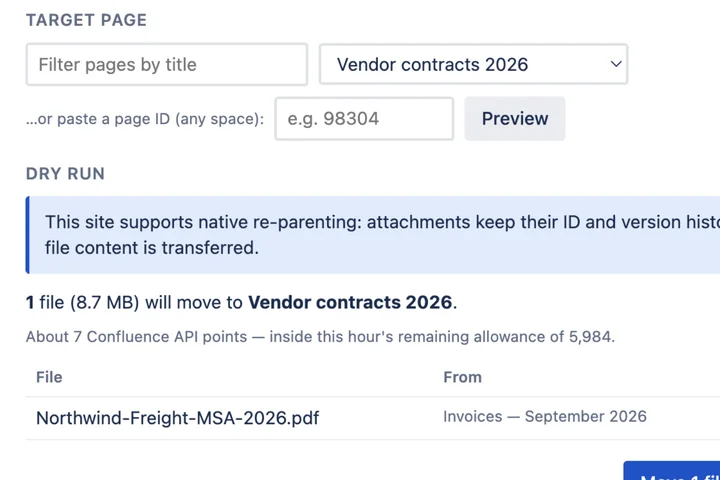
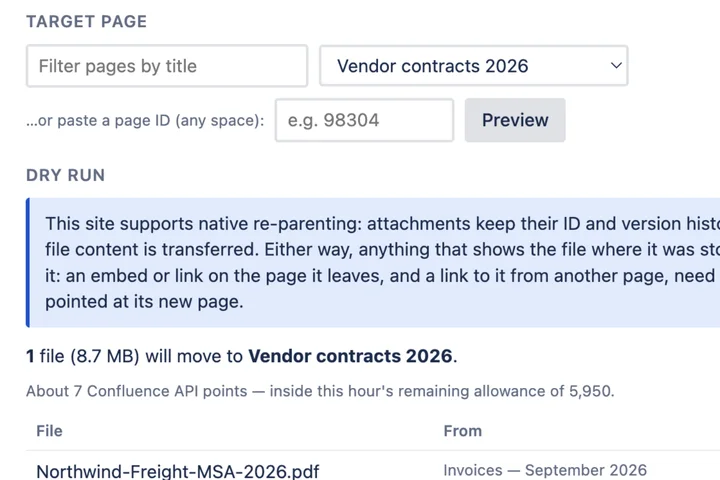
Satchel for Confluence: the demo re-shot on 2.11.0, and zips described with their limit
The embedded demo is 9Dr44CHaIY0 (1:10), recorded on the production install:
the zip now asks first, saying how many files, how big and what it costs, and
the dry run says what a move breaks. The old demo said Confluence could not
zip a whole space; a space admin's HTML export does, so it is unlisted. The
poster and the home page card are re-cut from the same install; the old poster
still showed the dialog's line that Confluence has no way to move attachments.

"A whole space in one zip" becomes "Files from any page, one zip": an archive
holds up to 2,000 files or 2 GB, and the comparison table and the docs now say
so, along with what happens to the files past either limit.

diff --git a/satchel-confluence/index.html b/satchel-confluence/index.html
@@ -55,12 +55,12 @@
         },
         "video": {
           "@type": "VideoObject",
-          "name": "Satchel for Confluence — move attachments in bulk, zip a whole space",
-          "description": "Move an attachment to the right page after a dry run, keeping its ID and version history, with an audit trail and an undo. Every attachment in a space in one searchable table, downloadable as one zip, plus the files nobody uses and the ones stored twice.",
+          "name": "Satchel for Confluence — move attachments in bulk, zip files from any page",
+          "description": "Every attachment in a space in one searchable table, and files from any pages zipped into one download. A contract moved to the right page after a dry run, keeping its ID and version history, with an audit trail and an undo. Then the likely orphans and the files stored twice.",
           "thumbnailUrl": "https://keelapps.app/assets/screenshots/satchel-confluence-move.png",
-          "uploadDate": "2026-09-26T11:05:00+03:00",
-          "duration": "PT1M9S",
-          "embedUrl": "https://www.youtube-nocookie.com/embed/dQr82ScUM2A"
+          "uploadDate": "2026-09-29T04:33:00+03:00",
+          "duration": "PT1M10S",
+          "embedUrl": "https://www.youtube-nocookie.com/embed/9Dr44CHaIY0"
         }
       }
     </script>
@@ -142,20 +142,21 @@
       <figure class="showcase" id="demo">
         <iframe
           class="showcase__player"
-          src="https://www.youtube-nocookie.com/embed/dQr82ScUM2A"
-          srcdoc="<style>*{margin:0;padding:0}html,body{height:100%;overflow:hidden;background:#0F2536}a{display:block;height:100%;position:relative}img{display:block;width:100%;height:100%;object-fit:cover}span{position:absolute;inset:0;margin:auto;width:5rem;height:5rem;border-radius:50%;background:rgba(15,37,54,.86);color:#F4EFE6;display:grid;place-items:center;font:2rem/1 sans-serif}a:hover span{background:rgba(15,37,54,1)}</style><a href='https://www.youtube-nocookie.com/embed/dQr82ScUM2A?autoplay=1' aria-label='Play the Satchel for Confluence product demo'><img src='/assets/screenshots/satchel-confluence-move.png' alt=''><span>&#9654;</span></a>"
+          src="https://www.youtube-nocookie.com/embed/9Dr44CHaIY0"
+          srcdoc="<style>*{margin:0;padding:0}html,body{height:100%;overflow:hidden;background:#0F2536}a{display:block;height:100%;position:relative}img{display:block;width:100%;height:100%;object-fit:cover}span{position:absolute;inset:0;margin:auto;width:5rem;height:5rem;border-radius:50%;background:rgba(15,37,54,.86);color:#F4EFE6;display:grid;place-items:center;font:2rem/1 sans-serif}a:hover span{background:rgba(15,37,54,1)}</style><a href='https://www.youtube-nocookie.com/embed/9Dr44CHaIY0?autoplay=1' aria-label='Play the Satchel for Confluence product demo'><img src='/assets/screenshots/satchel-confluence-move.png' alt=''><span>&#9654;</span></a>"
           width="1840"
           height="900"
-          title="Satchel for Confluence — move attachments in bulk, zip a whole space (product demo)"
+          title="Satchel for Confluence — move attachments in bulk, zip files from any page (product demo)"
           loading="lazy"
           allow="autoplay; encrypted-media; picture-in-picture; fullscreen"
           allowfullscreen
           referrerpolicy="strict-origin-when-cross-origin"
         ></iframe>
         <figcaption>
-          A contract on the invoices page, moved to the contracts page after a dry run that says
-          it keeps its ID and version history. Then the audit trail, the orphans and the duplicates.
-          <a href="https://www.youtube.com/watch?v=dQr82ScUM2A">Watch on YouTube</a>.
+          Three invoices zipped from the space's one table, then a contract on the invoices page
+          moved to the contracts page after a dry run that says it keeps its ID and version
+          history. Then the audit trail with its undo, the likely orphans and the duplicates.
+          <a href="https://www.youtube.com/watch?v=9Dr44CHaIY0">Watch on YouTube</a>.
         </figcaption>
       </figure>
 
@@ -191,11 +192,11 @@
             </p>
           </div>
           <div class="card">
-            <h3>A whole space in one zip</h3>
+            <h3>Files from any page, one zip</h3>
             <p>
               Select files across pages and download one archive, foldered by page title, with a
-              CSV manifest inside it. Built in your browser: attachment content never reaches our
-              servers, because we do not have any.
+              CSV manifest inside it — up to 2,000 files or 2 GB a zip. Built in your browser:
+              attachment content never reaches our servers, because we do not have any.
             </p>
           </div>
           <div class="card">
@@ -300,7 +301,7 @@
                 <td>Download a whole space's files?</td>
                 <td class="absent">Only inside a space-admin export</td>
                 <td>Yes</td>
-                <td><span class="answer">One zip, foldered by page</span></td>
+                <td><span class="answer">Up to 2,000 files or 2 GB a zip, foldered by page</span></td>
               </tr>
               <tr>
                 <td>Which files is nothing using?</td>

diff --git a/satchel-confluence/docs/index.html b/satchel-confluence/docs/index.html
@@ -198,7 +198,14 @@
         <h2 id="zip">Zip download</h2>
         <p>
           Select files anywhere in the space and download one archive, foldered by page title, with
-          a CSV manifest inside listing what it contains.
+          a CSV manifest inside listing what it contains. Before it starts, Satchel says how many
+          files and how many megabytes it will fetch, and roughly what that costs in Confluence API
+          points.
+        </p>
+        <p>
+          One archive holds up to <strong>2,000 files or 2 GB</strong>. Files past either limit are
+          listed in the manifest instead of being packed, so you can select them and download a
+          second zip. A file the archive could not include is listed too, with the reason in words.
         </p>
         <p>
           The archive is assembled <strong>in your browser tab</strong>. The compression library is

diff --git a/index.html b/index.html
@@ -256,7 +256,7 @@
             <p class="app-card__name">Satchel for Confluence</p>
             <p class="app-card__links">
               <a href="/satchel-confluence/">Product page</a>
-              <a href="/satchel-confluence/#demo"><svg viewBox="0 0 10 10" aria-hidden="true"><path d="M2 1.2 8.6 5 2 8.8Z" fill="currentColor" /></svg>Demo 1:09</a>
+              <a href="/satchel-confluence/#demo"><svg viewBox="0 0 10 10" aria-hidden="true"><path d="M2 1.2 8.6 5 2 8.8Z" fill="currentColor" /></svg>Demo 1:10</a>
               <a href="/satchel-confluence/docs/">Docs</a>
             </p>
           </li>
